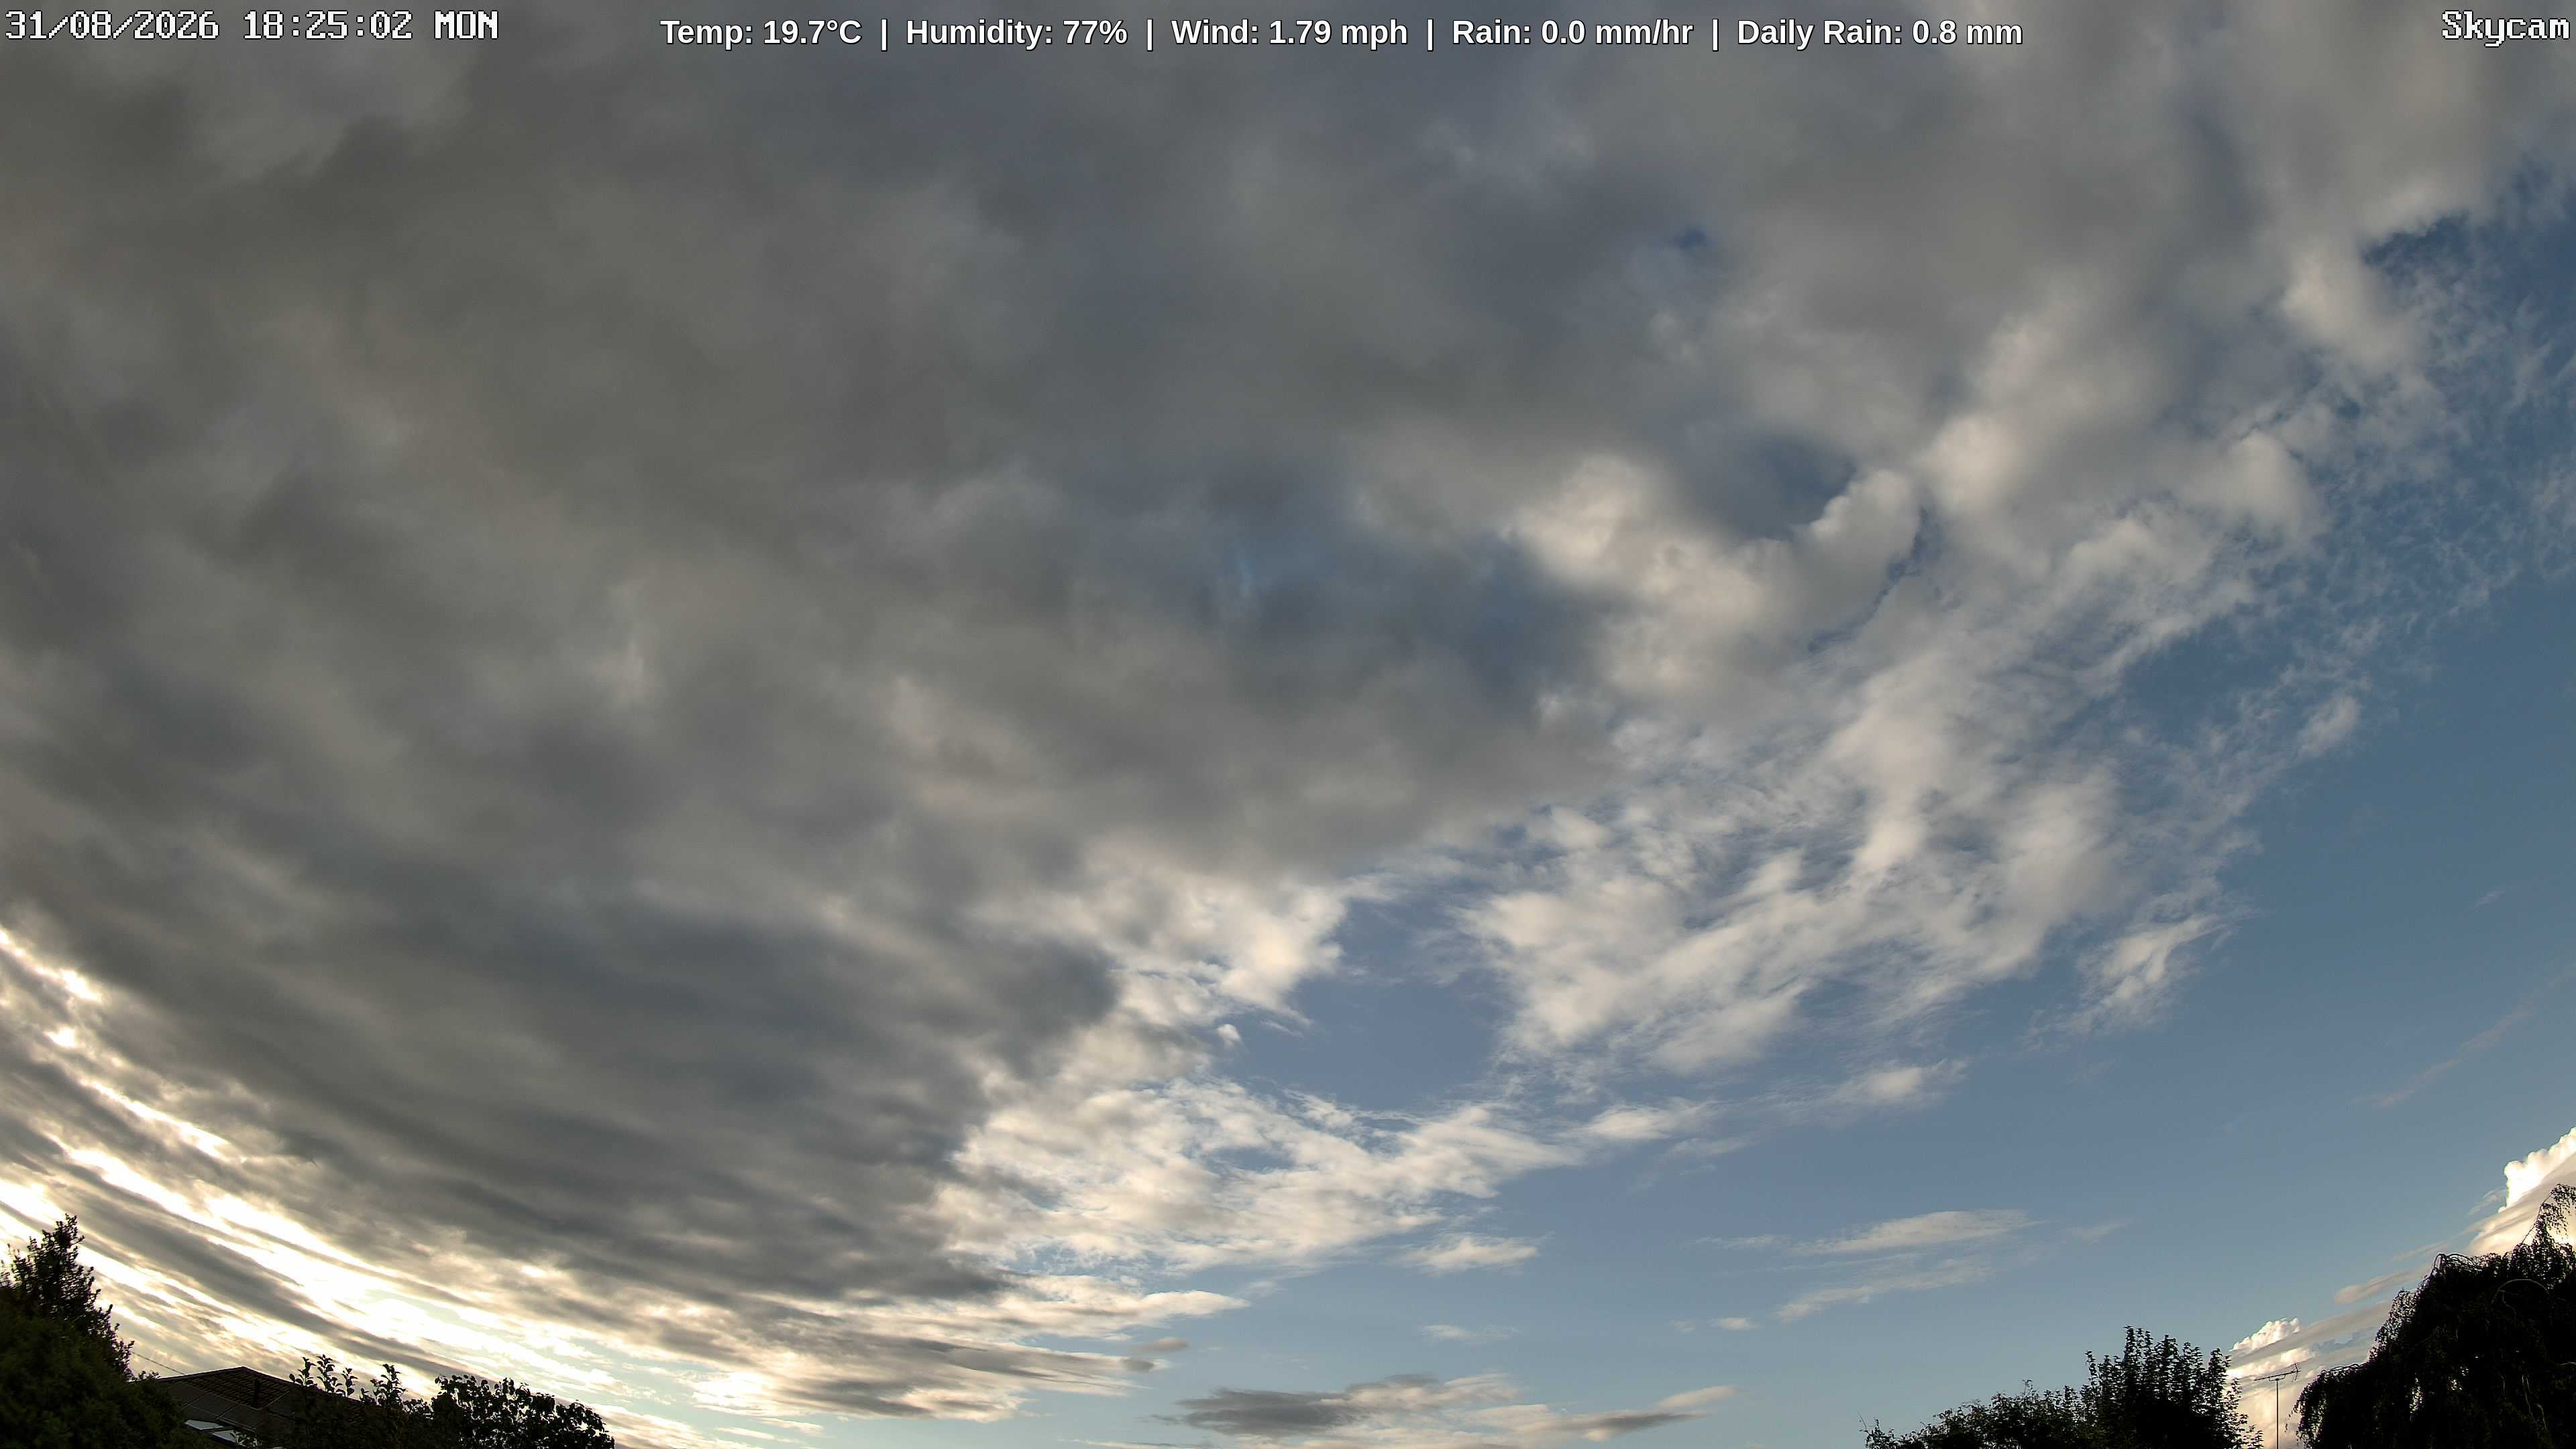
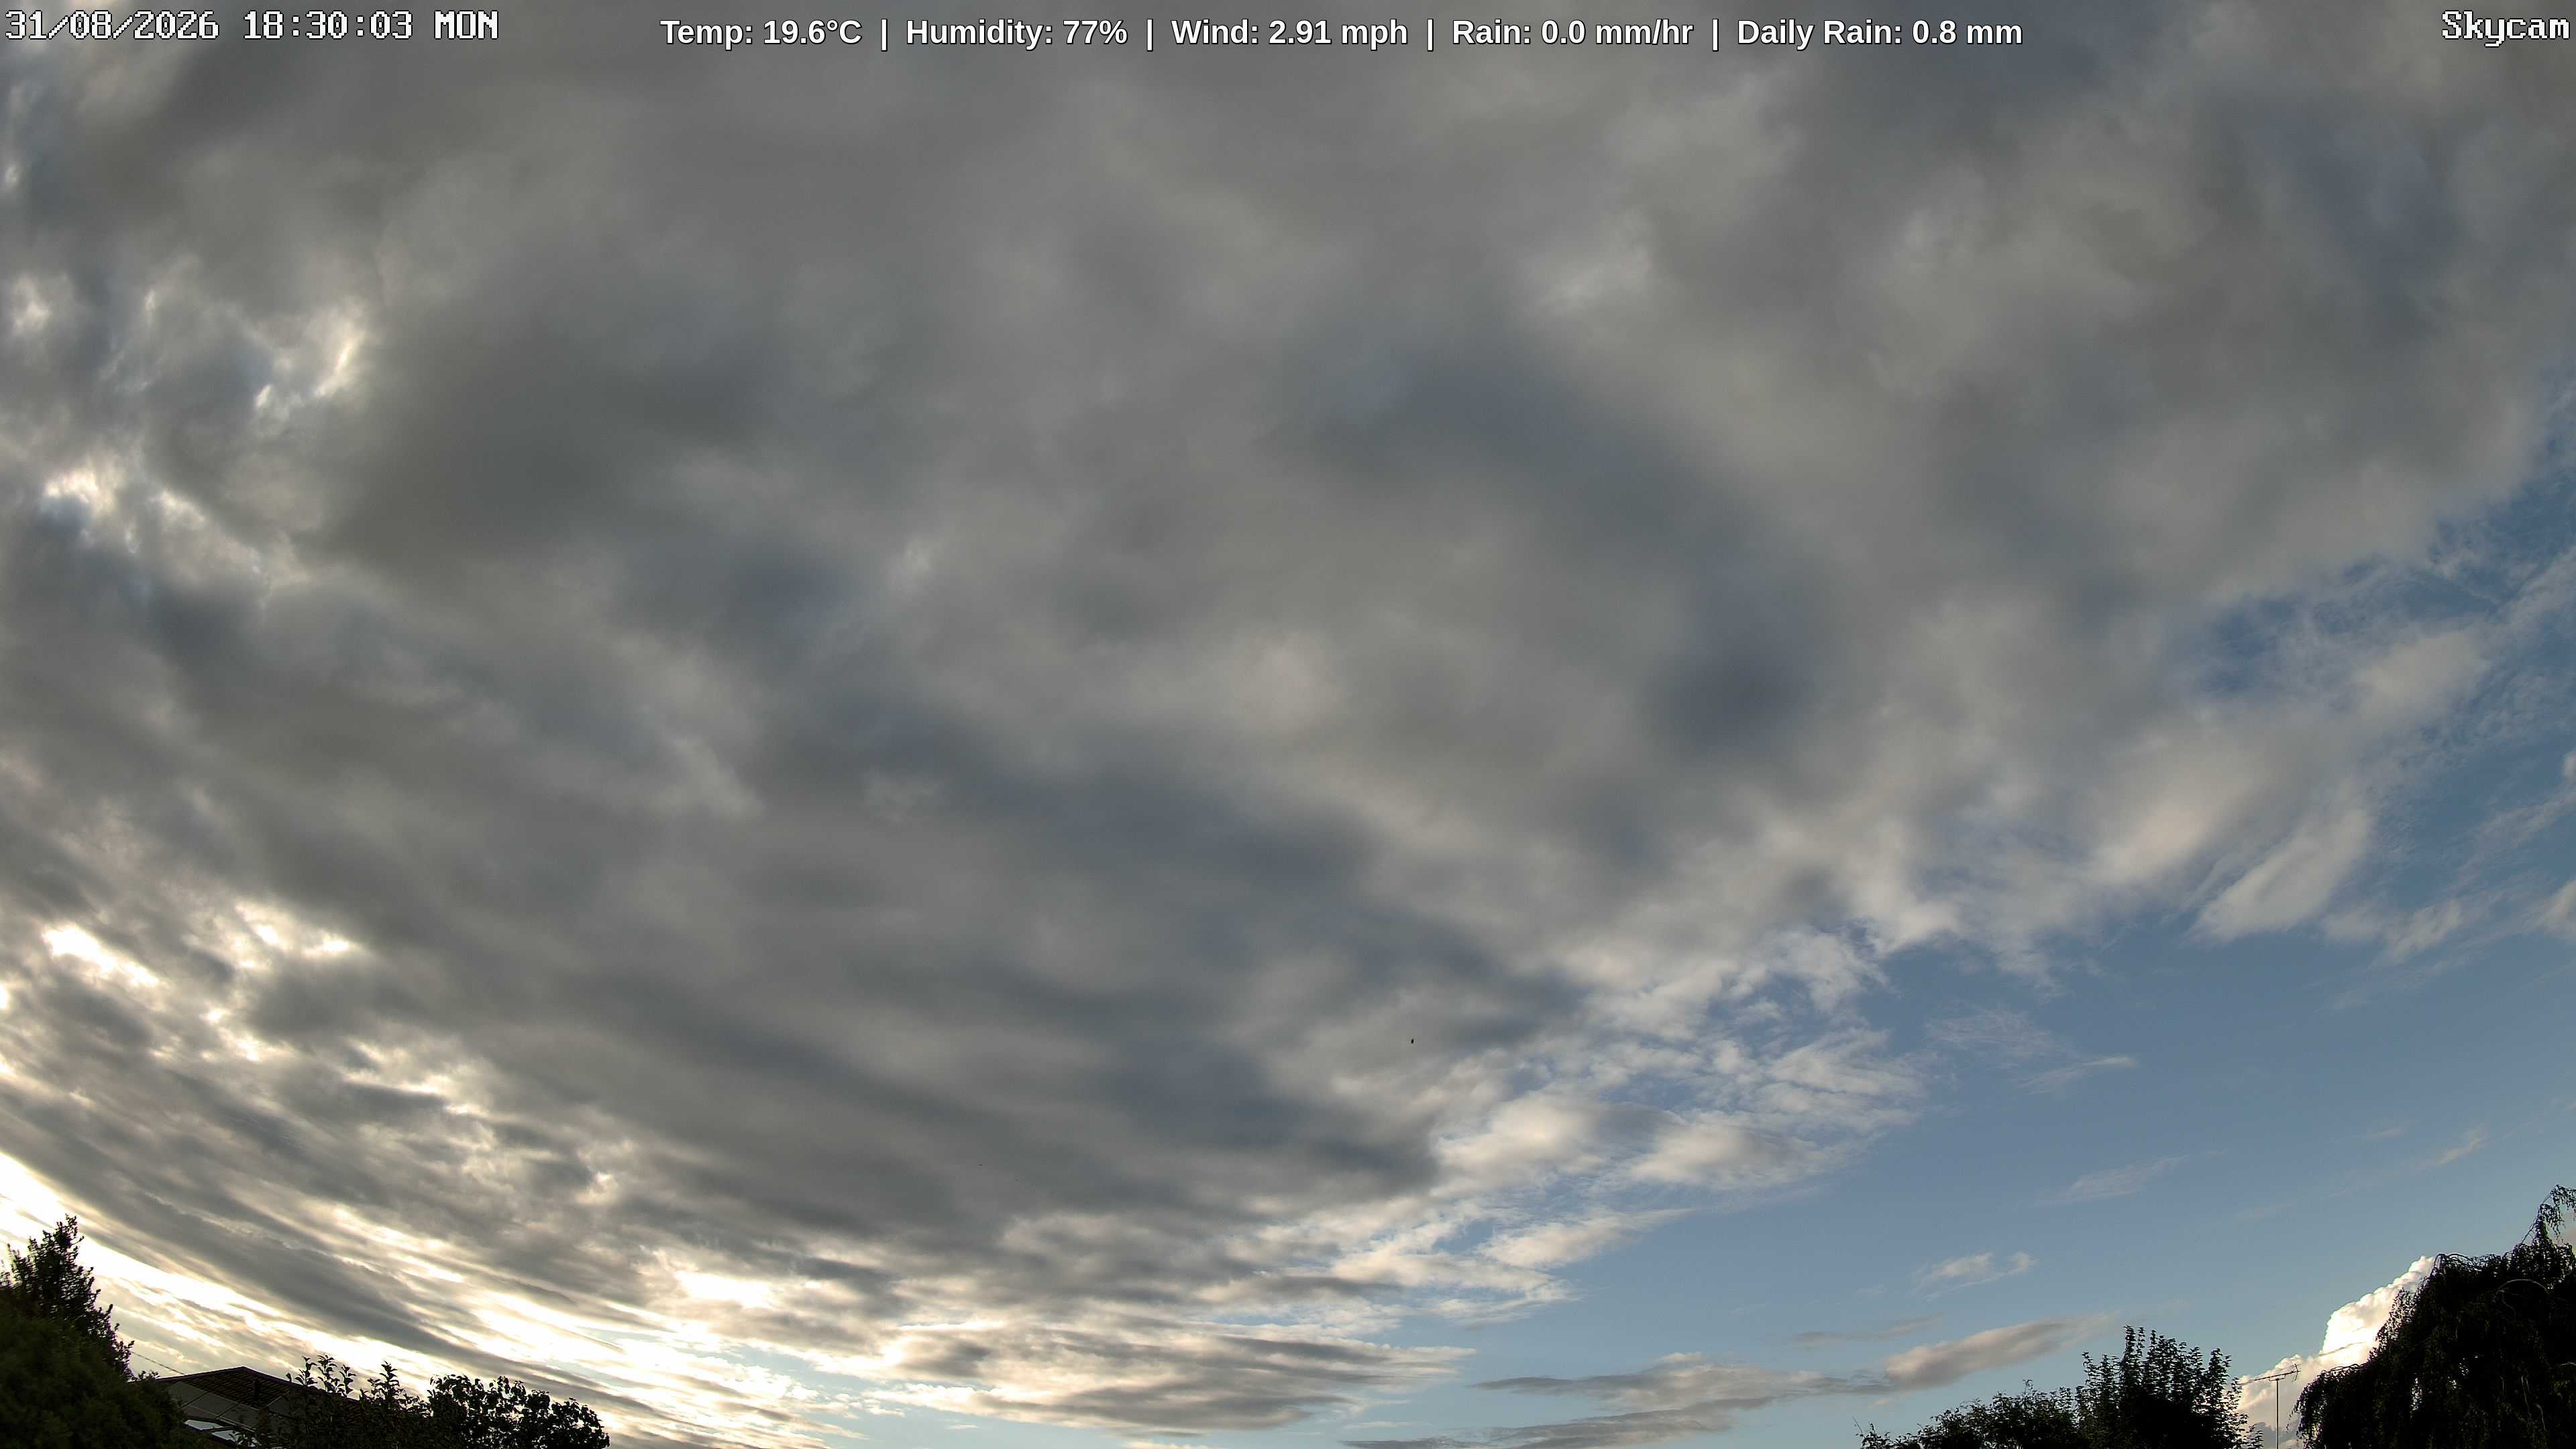
Update weather cam image with synchronized dual-layer weather metrics

diff --git a/index.html b/index.html
@@ -32,7 +32,7 @@
 </head>
 <body>
     <img id="weathercam" alt="Live Weather Snapshot">
-    <div class="banner">Temp: 19.7°C  |  Humidity: 77%  |  Wind: 1.79 mph  |  Rain: 0.0 mm/hr  |  Daily Rain: 0.8 mm</div>
+    <div class="banner">Temp: 19.6°C  |  Humidity: 77%  |  Wind: 2.91 mph  |  Rain: 0.0 mm/hr  |  Daily Rain: 0.8 mm</div>
 
     <script>
         // Shatter mobile cache engines by appending a live unique runtime timestamp 
